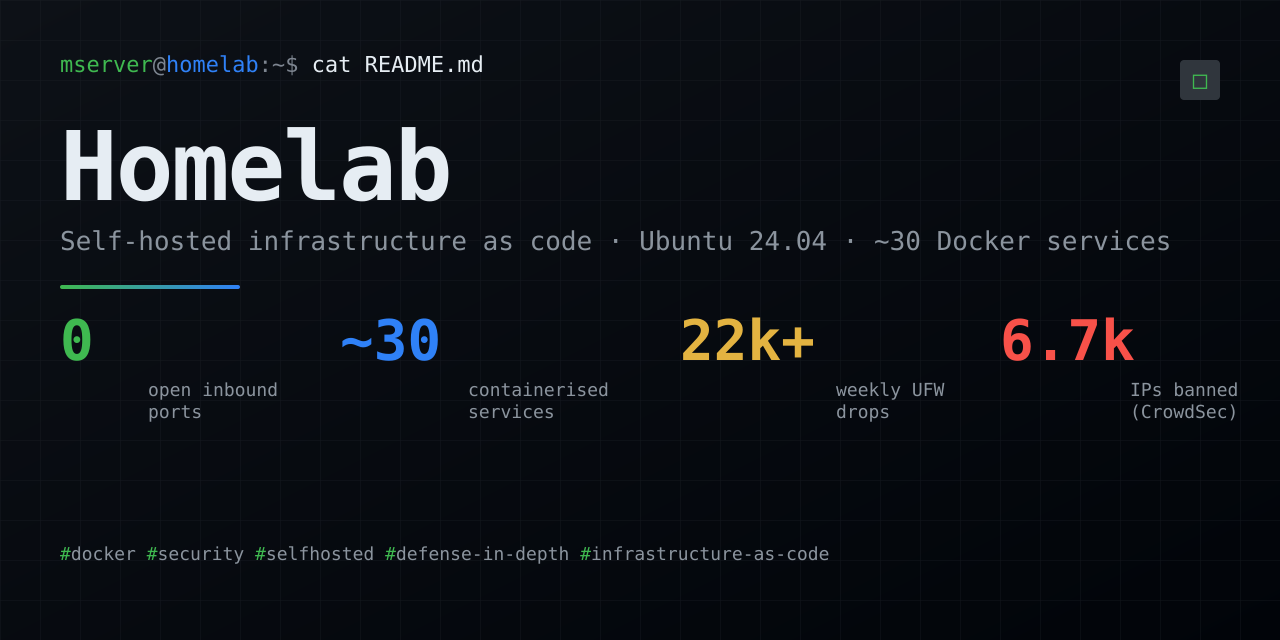
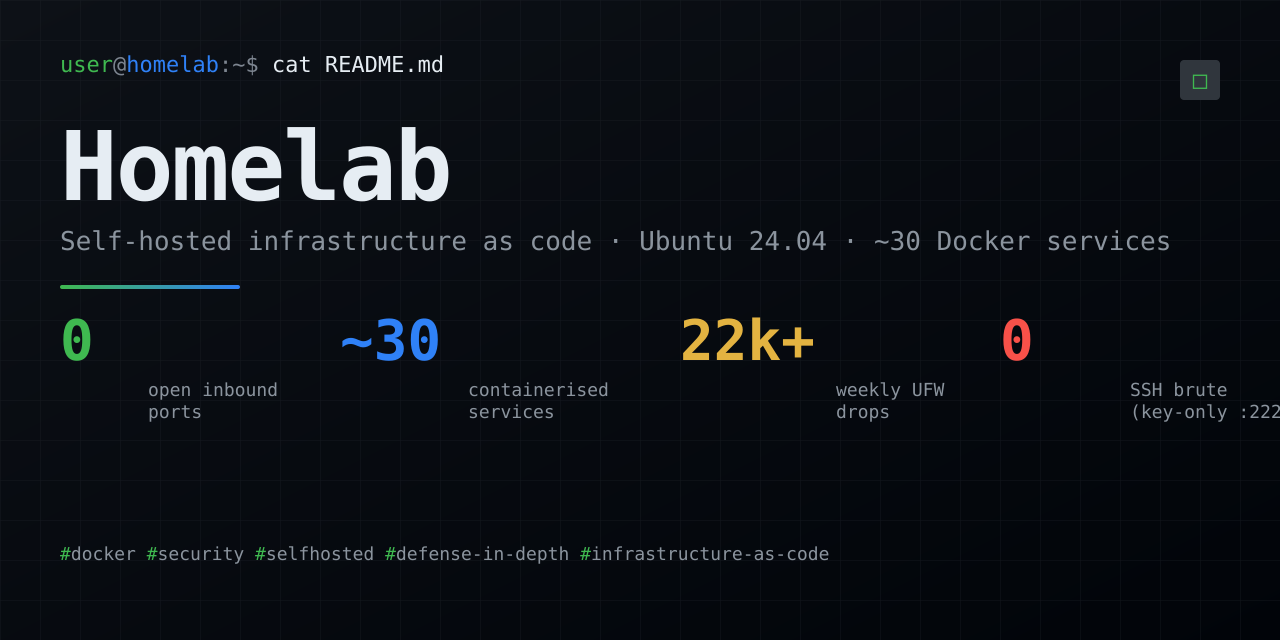
docs: rewrite security narrative around Suricata IDS + event-driven alerting
CrowdSec was decommissioned in favour of Suricata; the docs now match
reality:

- docs/security.md: substantial new "Network IDS — Suricata" section
  (rule categories, alert flow, what's caught vs the TLS blind-spot)
  + new "Event-driven alerting" section explaining the SSH-login-as-
  tripwire model. STRIDE table updated.
- docs/decisions.md: removed stale "Nextcloud removed" entry, added
  "Nextcloud, second time around" (rationale + trade-offs) and
  "Suricata over CrowdSec" (honest comparison, not dismissive of
  CrowdSec — the trade-off was operational simplicity for a single
  host).
- docs/architecture.md: mermaid updated — Suricata replaces CrowdSec
  with passive-monitoring annotations; fail2ban shown separately as
  SSH brute-force layer; Nextcloud + AI stack added to the diagram.
- docs/metrics.md: CrowdSec metrics replaced with Suricata + event-
  driven layer metrics; reproduction commands updated.
- docs/img/social-preview.svg + .png: regenerated without CrowdSec.
- security/README.md, security/hardening-checklist.md: aligned.

diff --git a/docs/security.md b/docs/security.md
@@ -10,7 +10,8 @@ What this setup defends against:
 - **Compromise of a single container** — `no-new-privileges` blocks privilege escalation, the Docker socket is read-only via proxy
 - **Credential leaks via DNS** — ISP never sees DNS queries
 - **VPN drops while seeding** — torrent traffic is killswitch-bound to the VPN interface
-- **Brute-force on SSH or web logins** — fail2ban + CrowdSec auto-ban
+- **Brute-force on SSH or web logins** — fail2ban auto-bans on log signal
+- **Hostile patterns inside the LAN once an attacker is past the perimeter** — Suricata IDS observes east-west and post-perimeter traffic
 - **Silent disk failure** — Scrutiny watches SMART, alerts via ntfy
 
 Out of scope:
@@ -26,16 +27,16 @@ The attack surface mapped against [Microsoft's STRIDE model](https://learn.micro
 | Category | Threat | Mitigation | Residual risk |
 |---|---|---|---|
 | **S**poofing | Attacker impersonates a legitimate user to reach internal services | Cloudflare Access + Google OAuth; single allowlisted identity; hardware-backed 2FA | OAuth account compromise — mitigated by 2FA and session-length limits |
-| **S**poofing | Rogue device on LAN pretends to be a trusted client | SSH key-only; no service trusts LAN-origin without its own auth | LAN intrusion (unlikely without physical access) would grant dashboard visibility, not data access |
+| **S**poofing | Rogue device on LAN pretends to be a trusted client | SSH key-only; no service trusts LAN-origin without its own auth; Suricata flags anomalous LAN-to-WAN patterns | LAN intrusion (unlikely without physical access) would grant dashboard visibility, not data access |
 | **T**ampering | Modification of container images or binaries | Images from official sources; Watchtower limited to non-critical services; stateful services pinned | Supply-chain compromise of an upstream registry |
-| **T**ampering | Modification of configs or secrets at rest | `.env` never committed; `${APPDATA_DIR}` owned by non-root where possible; backups verified weekly | Compromise of the host itself bypasses this — the backups are the last line |
-| **R**epudiation | A malicious action inside the stack leaves no trail | journald retains 30d; NPM access logs ship to CrowdSec; SSH logs retained | Single-user host — repudiation is mostly a compliance concern, not operational |
+| **T**ampering | Modification of configs or secrets at rest | `.env` never committed; `${APPDATA_DIR}` owned by non-root where possible; backups verified weekly; file-watcher service alerts on changes to critical paths | Compromise of the host itself bypasses this — the backups are the last line |
+| **R**epudiation | A malicious action inside the stack leaves no trail | journald retains 30d; SSH logins, sudo invocations, and fail2ban events push to ntfy in real time; Suricata writes `eve.json` + `fast.log` | Single-user host — repudiation is mostly a compliance concern, not operational |
 | **I**nfo disclosure | ISP or passive observer sees DNS queries or torrent traffic | AdGuard Home intercepts all LAN DNS; Mullvad WG with lockdown mode for torrents | Cloudflare terminates TLS — trusted for non-sensitive services only |
 | **I**nfo disclosure | Web service leaks secrets in logs or error pages | Logs capped at 7d for stdout; secrets never passed as CLI args; `.env` mounted read-only | Application-level leaks still possible — reviewed per-service |
-| **D**enial of service | Brute-force against SSH or web logins | fail2ban (SSH); CrowdSec (NPM, reads logs, bans at iptables); Cloudflare absorbs volumetric | Dedicated DDoS against home IP would take the tunnel down but not expose the origin |
-| **D**enial of service | Container or script goes into runaway loop and exhausts resources | `docker_watcher.sh` (systemd) restarts crashlooping containers; cgroup limits where sensible | No global memory/CPU limits on every container — identified gap |
+| **D**enial of service | Brute-force against SSH or web logins | fail2ban watches sshd journal and NPM access logs, bans at the firewall; Cloudflare absorbs volumetric load | Dedicated DDoS against home IP would take the tunnel down but not expose the origin |
+| **D**enial of service | Container or script goes into runaway loop and exhausts resources | `docker_watcher.sh` (systemd) restarts crashlooping containers; cgroup limits where sensible; docker-events alerts catch repeated `die`/`oom` | No global memory/CPU limits on every container — identified gap |
 | **E**levation of privilege | Container escape | `no-new-privileges:true` everywhere; Docker socket accessed via read-only proxy, not raw; `privileged:true` forbidden except Scrutiny (documented) | 0-day in Docker itself — accepted |
-| **E**levation of privilege | User-level compromise escalates to root | SSH key-only, password auth off; sudo requires password; unattended-upgrades patches fast | Phishing of SSH private key — mitigated by passphrase and host isolation |
+| **E**levation of privilege | User-level compromise escalates to root | SSH key-only, password auth off; sudo requires password; sudo invocations push a real-time alert; unattended-upgrades patches fast | Phishing of SSH private key — mitigated by passphrase and host isolation |
 
 ## Layers
 
@@ -54,16 +55,16 @@ The attack surface mapped against [Microsoft's STRIDE model](https://learn.micro
 |---|---|
 | Service binding | Containers bind only to `${LAN_IP}`, never `0.0.0.0` |
 | Reverse proxy | All web services routed via Nginx Proxy Manager with LE wildcard cert |
-| Behavioural IPS | CrowdSec reads NPM and SSH logs, bans hostile IPs at iptables |
+| Network IDS | Suricata in passive monitoring mode on the LAN-facing interface — alerts on hostile patterns post-perimeter (see below) |
 
 ### 3. Host
 
 | Control | Implementation |
 |---|---|
 | SSH | Key-only (`PasswordAuthentication no`), root login disabled |
-| Brute-force protection | fail2ban for SSH; CrowdSec for everything else |
+| Brute-force protection | fail2ban watches sshd, NPM, and other web log sources |
 | Patching | Unattended-upgrades for security updates |
-| Audit | UFW logs + journald → weekly digest |
+| Audit | UFW logs + journald → weekly digest; real-time push for sudo, SSH, ban, and container lifecycle events |
 
 ### 4. Containers
 
@@ -83,21 +84,69 @@ The attack surface mapped against [Microsoft's STRIDE model](https://learn.micro
 | Auth (internal) | Per-app credentials, no password reuse |
 | Backup | Nightly rsync of `${APPDATA_DIR}` + weekly verification job |
 
+## Network IDS — Suricata
+
+UFW stops what shouldn't get in. fail2ban stops what's hammering known login surfaces. Neither tells you anything about what's already inside, talking outbound, or doing something quietly weird on the LAN. Suricata fills that gap.
+
+**Why network IDS, not just host IDS.** A host IDS sees what one machine does. A network IDS sees what every device on the LAN does *to each other and to the internet*. On a homelab where IoT, TVs, phones, and bulk storage all share the same broadcast domain, that lateral and outbound visibility matters more than another HIDS.
+
+**Where it lives.** Suricata runs as a system service on the Docker host, listening passively on the LAN-facing interface via `af-packet` (no inline blocking, no MITM, no risk of degrading throughput). Its `HOME_NET` is the RFC1918 LAN; everything else is `EXTERNAL_NET`. Because it's passive, the worst case if Suricata crashes is "no IDS for a few minutes" — never "the LAN went down".
+
+**What it watches for.** The active ruleset is the Emerging Threats Open feed (refreshed via `suricata-update`), which is grouped into categories. The ones enabled here:
+
+- **Exploit and exploit-kit** — known CVE exploitation patterns and drive-by-download kits
+- **Malware and trojan** — command-and-control beacons, known bad host indicators, payload signatures
+- **Attack-response** — traffic patterns characteristic of post-exploitation (reverse shells, data exfil shapes)
+- **Scan and dshield** — port scanners, mass-recon tools, IPs already on public block lists
+- **Web-attacks and SQL** — injection/RCE patterns against HTTP services
+- **DNS** — DGA-style queries, suspicious TXT lookups, tunnelling
+- **Policy and inappropriate** — policy violations (e.g. cleartext credentials, Tor)
+- **Mobile-malware** — patterns relevant to the phones and TVs on the LAN
+
+**How alerts surface.** Suricata writes `fast.log` (compact one-line alerts) and `eve.json` (full structured event log) under `/var/log/suricata`. A small Python service (`suricata-ntfy.service`, hardened with `NoNewPrivileges`, `ProtectSystem=strict`, read-only `${APPDATA_DIR}`) tails `fast.log`, filters to severity 1–2, dedupes, and pushes notifications to ntfy. By the time an attention-worthy event reaches the phone, it's already been triaged out of the firehose.
+
+**Honest limits.** TLS-encrypted traffic is opaque — Suricata sees the SNI, JA3 fingerprint, certificate, and timing, but not the payload. That's enough to flag "this device is talking to a known C2 hostname" but not enough to read what's said. Inline blocking is deliberately off; the trade-off is that Suricata detects, fail2ban and UFW respond. For a single-host LAN this split (perimeter / brute-force / behavioural) is enough; an enterprise would add NDR and SIEM correlation on top.
+
+## Event-driven alerting
+
+Earlier iterations of this stack relied on a single periodic healthcheck — every 15 minutes a bash script asked "is anything broken?" and pushed to ntfy if so. That was fine for "did something stop running" but gave away the entire game on time-sensitive signals. A successful SSH login at 03:17 doesn't need a 15-minute window to be interesting; it needs to be on the phone in seconds.
+
+So the alerting model is now event-driven, layered on top of the periodic healthcheck rather than replacing it.
+
+| Source | Event | Trigger | Pushed via |
+|---|---|---|---|
+| `fail2ban-notify` | IP banned/unbanned in any jail | fail2ban action hook | ntfy (high priority on ban) |
+| `ssh-login-notify` | Successful SSH session opens | PAM `pam_exec` on `sshd` | ntfy (priority depends on origin: LAN/Docker/external) |
+| `sudo-notify` | Interactive sudo invocation | PAM `pam_exec` on `sudo`, filtered to TTYs only (skips cron/scripts) | ntfy (high) |
+| `docker-events-ntfy` | Container `start`/`stop`/`die`/`oom` | systemd unit tailing the Docker events stream | ntfy |
+| `npm-monitor` | Path scans, 401/403/404 spam, suspect user agents | systemd unit tailing NPM access logs | ntfy |
+| `suricata-ntfy` | IDS alert at severity 1–2 | systemd unit tailing `fast.log` | ntfy |
+| `file-watcher` | Change in critical file paths | systemd unit | ntfy |
+
+The point of pushing **every** successful SSH login (not just failed ones) is tripwire behaviour: if a notification arrives that I didn't initiate, I have seconds — not minutes — to react. Origin-aware priority means LAN logins are quiet (low priority) while anything from outside RFC1918 is `urgent` and overrides phone Do Not Disturb.
+
+All of this runs through a single `ntfy_send` shim in `lib.sh`, so topic, priority, and tag conventions stay consistent. Topics are split by severity rather than by source — a high-priority security event and a high-priority disk warning land on the same channel because they share an urgency, not because they share a system.
+
 ## What gets logged where
 
 | Source | Destination | Retention |
 |---|---|---|
 | UFW blocks | journald + parsed weekly digest | 30 days |
-| SSH | journald + fail2ban | 30 days |
-| NPM access | NPM logs → CrowdSec | 14 days |
+| SSH | journald + fail2ban + real-time ntfy push | 30 days |
+| sudo | journald + real-time ntfy push (interactive only) | 30 days |
+| NPM access | NPM logs → fail2ban + npm-monitor → ntfy | 14 days |
+| Container lifecycle | docker-events-ntfy → ntfy | live |
 | Container stdout | Docker logs (json-driver, capped) | 7 days |
+| Suricata | `fast.log` + `eve.json` under `/var/log/suricata`; severity 1–2 → ntfy | 30 days |
 | Healthcheck alerts | ntfy (push to phone) | – |
 | SMART | Scrutiny + InfluxDB | 90 days |
 
 ## Incident playbooks
 
-- **Suspicious SSH attempts** → `fail2ban-client status sshd`, then check CrowdSec decisions
-- **VPN drop suspected** → `wg show`, check qBittorrent traffic vs VPN interface counters
+- **Suspicious SSH attempts** → `fail2ban-client status sshd`, then check journald for the offending IPs and confirm the ban took
+- **Unexpected SSH-login push** → if the source is unknown, immediately revoke the session (`pkill -KILL -u <user>`), rotate the SSH key, audit `last` and `journalctl _COMM=sshd`
+- **Suricata alert** → cross-reference the source IP and signature in `eve.json`, check whether the affected device is supposed to be doing what triggered the rule, ban at UFW if needed
+- **VPN drop suspected** → `wg show`, check qBittorrent traffic vs VPN interface counters, run `vpn-killswitch-check.sh`
 - **Container compromise suspected** → stop container, snapshot `${APPDATA_DIR}/<service>`, inspect logs offline, rebuild from image
 - **Disk warning from Scrutiny** → check Scrutiny dashboard, run extended SMART test, prepare replacement before failure
 

diff --git a/docs/metrics.md b/docs/metrics.md
@@ -17,26 +17,14 @@ Numbers, not adjectives. Pulled from the live system — every figure links to t
 
 Rolling 7-day window, aggregated across defensive layers:
 
-| Layer | Blocked | Notes |
+| Layer | Activity | Notes |
 |---|---|---|
 | **UFW** (perimeter drop) | **22,701** packets | `journalctl \| grep "\[UFW BLOCK\]"` |
-| **CrowdSec** (active bans from community blocklist) | **6,720** IPs | `cscli metrics` — CAPI origin |
-| **fail2ban** (SSH bans, all-time) | **0** | `fail2ban-client status sshd` — nothing has gotten past the key-only gate to even try |
+| **Suricata IDS** (signature alerts) | post-perimeter behavioural — see `fast.log` | `journalctl -u suricata` and `/var/log/suricata/fast.log` |
+| **fail2ban** (SSH bans, all-time) | **0** | `fail2ban-client status sshd` — nothing has gotten past the key-only gate on port 2222 to even try |
+| **Event-driven alerters** | every SSH login, sudo, fail2ban ban, Docker event | systemd units → ntfy → iPhone |
 
-CrowdSec categorises the banned IPs by intent:
-
-| Reason | Count |
-|---|---|
-| `http:bruteforce` | 3,526 |
-| `http:scan` | 1,707 |
-| `http:crawl` | 486 |
-| `http:dos` | 459 |
-| `http:exploit` | 382 |
-| `ssh:bruteforce` | 519 |
-| `ssh:exploit` | 72 |
-| `generic:scan` | 81 |
-
-Firewall bouncer has processed **303 GB / 205 million packets** since deployment.
+Suricata categorises detections by signature class — the rules enabled here cover emerging-threats, exploit-kit, malware, scan, dns, web-attacks, and policy violations. Most observed traffic is low-effort scanning from the modem's public IPv4; the interesting metric is that nothing escalates beyond UFW's drop layer.
 
 ## Operational reliability
 
@@ -63,10 +51,10 @@ The next bottleneck is bulk storage, not compute — which is the correct shape 
 
 ## What these numbers actually mean
 
-- **Zero successful SSH brute-forces** isn't because nobody tried — it's because SSH rejects password auth entirely, so fail2ban never has to ban anyone. The real defence is the configuration, not the reaction.
+- **Zero successful SSH brute-forces** isn't because nobody tried — it's because SSH rejects password auth entirely (and listens on port 2222, off the default scan path), so fail2ban never has to ban anyone. The real defence is the configuration, not the reaction.
 - **22k UFW drops/week** is mostly low-effort scanning from the 5G modem's public IPv4. The interesting number is that none of it got past UFW to a service.
-- **6.7k CrowdSec bans** are pre-emptive — pulled from the community blocklist before these IPs ever hit our services. The local detection engine sees this traffic and confirms nothing got through.
-- **303 GB processed / only 2 KB dropped** at the bouncer looks lopsided because the bouncer rarely needs to drop — the drops happen earlier at UFW. The bouncer exists to catch behavioural patterns (scans, DOS) that UFW's stateless rules can't see.
+- **Suricata observes the post-perimeter** — anything UFW lets through is fingerprinted against signature rules. The IDS doesn't block (passive monitoring); it raises the visibility floor so suspicious behaviour generates an ntfy alert within seconds of `fast.log` recording it.
+- **Every SSH login generates a push to your iPhone.** If a notification arrives that you didn't initiate, you have seconds to react — that's the tripwire model: detection beats prevention when the prevention layer is already configured correctly.
 
 ## How to reproduce these numbers
 
@@ -74,12 +62,15 @@ The next bottleneck is bulk storage, not compute — which is the correct shape 
 # UFW blocks (last 7 days)
 sudo journalctl --since "7 days ago" | grep -c "\[UFW BLOCK\]"
 
-# CrowdSec metrics
-docker exec crowdsec cscli metrics
-docker exec crowdsec cscli decisions list
+# Suricata signature hits (last 7 days)
+sudo journalctl -u suricata --since "7 days ago" | grep -c "\[Drop\]\|\[\*\*\]"
+sudo tail -n 200 /var/log/suricata/fast.log
 
 # fail2ban state
 sudo fail2ban-client status sshd
+
+# ntfy alerter activity (event-driven layers)
+journalctl -u docker-events-ntfy.service -u suricata-ntfy.service -u npm-monitor.service --since "24 hours ago"
 
 # Capacity
 df -h

diff --git a/docs/decisions.md b/docs/decisions.md
@@ -61,16 +61,38 @@ If this ever needs trends-over-time, Prometheus is easy to add later.
 
 Borg/restic give deduplication and retention. For `${APPDATA_DIR}` (~few GB), dedup doesn't matter. For `${MEDIA_DIR}` (TBs of replaceable content), backup is unnecessary. The off-site copy is photos and irreplaceable documents only.
 
+## Network IDS: Suricata over CrowdSec
+
+CrowdSec ran here for a stretch and did its job. The reason it left isn't that it was bad — it's that for a single-host setup, the value-to-overhead ratio drifted the wrong way.
+
+CrowdSec is, at heart, a *behavioural log parser plus a community blocklist plus a bouncer*. Most of its strength comes from the community signal feedback loop, which matters more when you have many sensors contributing and many endpoints consuming. With one host, you're mostly running the agent, the local API, the bouncer, and a parser pipeline so a small stream of NPM and SSH events can produce IP bans — and `fail2ban` already produces those bans against the same logs with a fraction of the moving parts.
+
+What was actually missing wasn't more brute-force defence, it was *visibility* into post-perimeter behaviour: lateral LAN traffic, suspicious DNS, exploit signatures, malware C2 patterns. That's what Suricata gives, and CrowdSec doesn't. So the swap was:
+
+- `fail2ban` keeps the brute-force role (SSH, NPM access logs, anything log-based)
+- `Suricata` takes over the "something hostile is happening on the network" role, in passive mode on the LAN interface
+- The simpler stack — one log-based banner + one network-based detector — is easier to reason about than three overlapping systems
+
+CrowdSec is still the right answer if you have a fleet contributing to and consuming the community blocklist, or if you specifically want managed bouncers across multiple hosts. For one host where the perimeter is already covered, splitting the role made the design smaller and the alerting clearer.
+
 ## What got removed and why
 
 These services were tried and dropped:
 
 | Service | Reason removed |
 |---|---|
-| Nextcloud | Photos moved to Immich (better mobile sync); documents moved to a simpler setup. Nextcloud's complexity wasn't earning its keep. |
 | Authentik | Cloudflare Access + per-app auth is sufficient for a single user. Authentik was a service to maintain for a problem we didn't have. |
 | Paperless-ngx | OCR pipeline was used twice in six months. Not worth the running cost. |
 | GNS3 | Lab work moved to a dedicated workstation. |
+| CrowdSec | Replaced by `fail2ban` for brute-force and Suricata for behavioural network detection — see the section above. |
+
+## Nextcloud, second time around
+
+Nextcloud was removed earlier in the project's life ("photos moved to Immich, documents to a simpler setup"). It's back. The pull factor was that the simpler setup never gave full WebDAV plus calendar plus contacts plus cross-device sync from a single source, and stitching those together piecemeal was more friction than just running Nextcloud properly.
+
+It now sits behind NPM at `nextcloud.${DOMAIN}`, pinned to a Postgres 16 instance and a dedicated Redis 7 isolated to the Nextcloud network so the rest of the stack can't see them. Bulk storage lives on the HDD as External Storage under `${STORAGE_DIR}/Nextcloud/{laptop,phone,server}` so the NVMe stays for hot config only. 2FA is enabled, the admin account is unique to this service, and trusted-domain handling is locked to the proxied hostname.
+
+**The trade-off, named:** Nextcloud brings real operational complexity — a Postgres to back up, a Redis to keep healthy, an upgrade path that requires care, and a permission model that's easy to misconfigure. The reason it earns that complexity now where it didn't before is the *combined* feature set (files + calendar + contacts + WebDAV) rather than any single piece. Immich still owns photos because it's better at it; Nextcloud owns the rest.
 
 ## Future directions
 

diff --git a/docs/architecture.md b/docs/architecture.md
@@ -63,10 +63,22 @@ flowchart LR
     Plex --> NVENC{NVIDIA GPU}
     Immich-ML --> NVENC
     Tdarr --> NVENC
+    FasterWhisper --> NVENC
+    Ollama --> NVENC
 
-    CrowdSec -->|reads logs| NPM
-    CrowdSec -->|bouncer| iptables[(iptables)]
+    NPM --> Nextcloud
+    NPM --> OpenWebUI
+    OpenWebUI --> Ollama
+    Nextcloud --> Postgres[(Postgres 16)]
+    Nextcloud --> Redis[(Redis 7)]
+
+    Suri[Suricata IDS<br/>passive monitoring] -.->|af-packet| LANIface{{LAN interface}}
+    Suri -->|fast.log severity 1-2| ntfy[(ntfy push)]
+    fail2ban -->|reads logs| NPM
+    fail2ban -->|bans at firewall| UFW[(UFW / iptables)]
 ```
+
+**Detection vs response, split:** `fail2ban` handles brute-force responses against SSH and NPM logs (it bans IPs). Suricata observes traffic on the LAN-facing interface in passive mode, raising alerts on exploit patterns, malware C2, scans, and policy violations — those go straight to push notification rather than auto-blocking. Inference and transcription workloads (Ollama, Open WebUI, Faster-Whisper) share the GPU with Plex transcoding and Immich ML; Nextcloud sits behind NPM with its own isolated Postgres and Redis.
 
 ## External access
 

diff --git a/security/README.md b/security/README.md
@@ -5,7 +5,7 @@ The defense-in-depth pieces of the homelab.
 | File | Purpose |
 |---|---|
 | `ufw-baseline.sh` | Apply default-deny UFW with a minimal allowlist |
-| `fail2ban/jail.local` | SSH brute-force protection (CrowdSec handles the rest) |
+| `fail2ban/jail.local` | SSH brute-force protection (Suricata covers post-perimeter behavioural detection) |
 | `ssh/sshd_config` | Hardened SSH: keys-only, strong crypto, explicit user allowlist |
 | `hardening-checklist.md` | Copy-and-work-through list for any new Ubuntu host |
 | `vpn-killswitch.md` | How torrent traffic is bound to the VPN interface, with verification |

diff --git a/security/hardening-checklist.md b/security/hardening-checklist.md
@@ -20,7 +20,7 @@ A copy-and-work-through list for any new homelab host. Each item has a one-line 
 
 - [ ] Install fail2ban, drop in `jail.local` from this repo, restart
 - [ ] Verify `fail2ban-client status sshd` shows the jail active
-- [ ] Optional: deploy CrowdSec for behavioural detection on web-facing services
+- [ ] Optional: deploy Suricata for passive network IDS (rule categories: emerging-threats, exploit-kit, malware, scan, dns, web-attacks)
 
 ## Patching
 